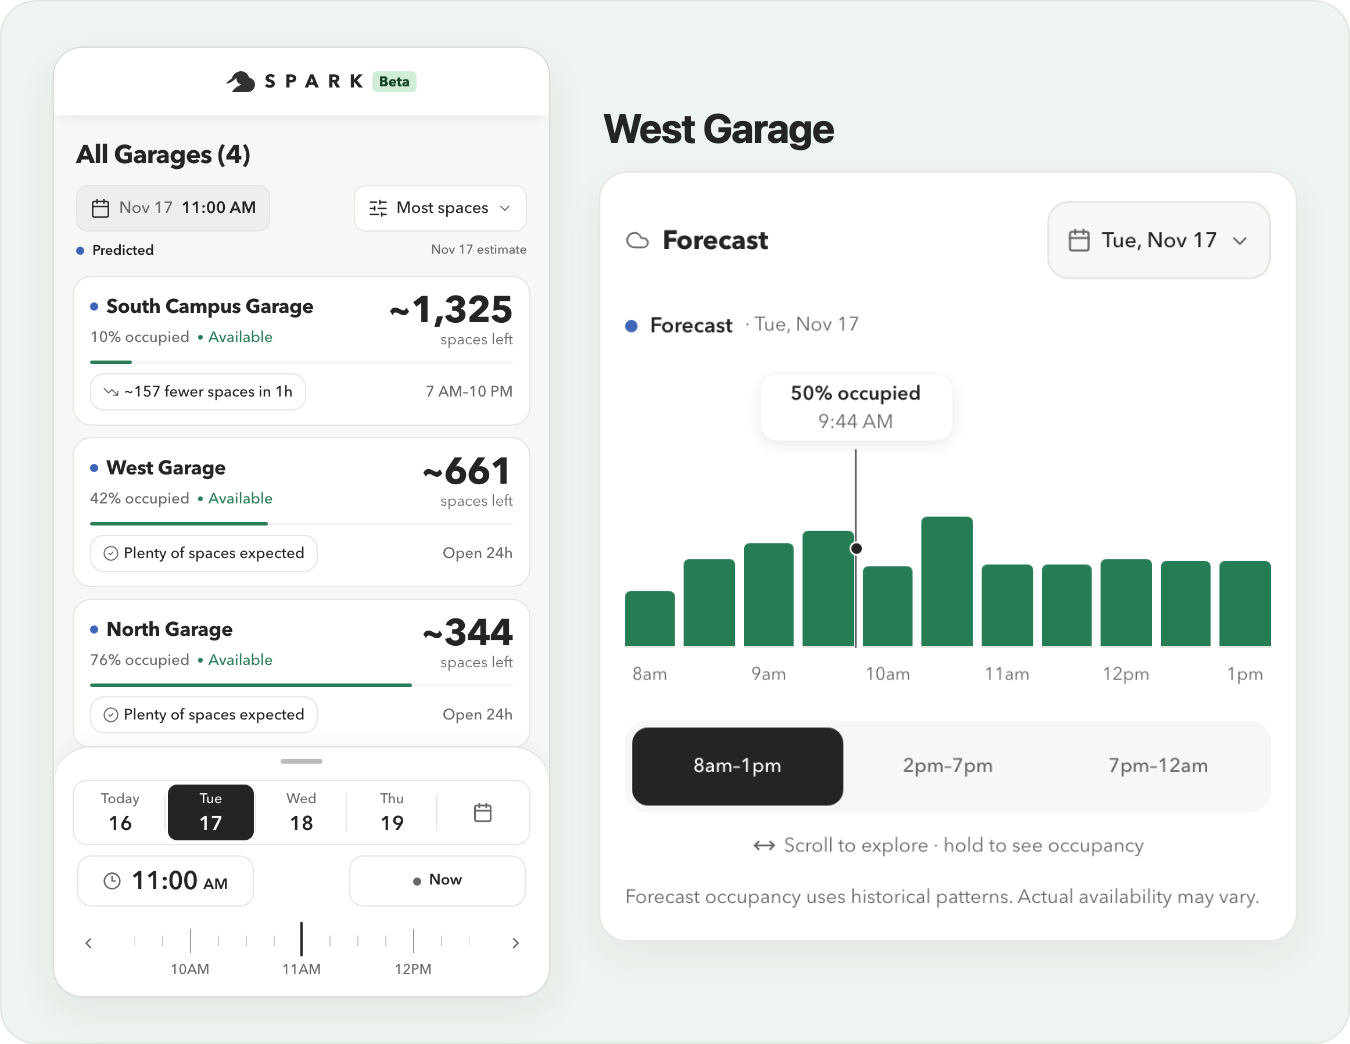
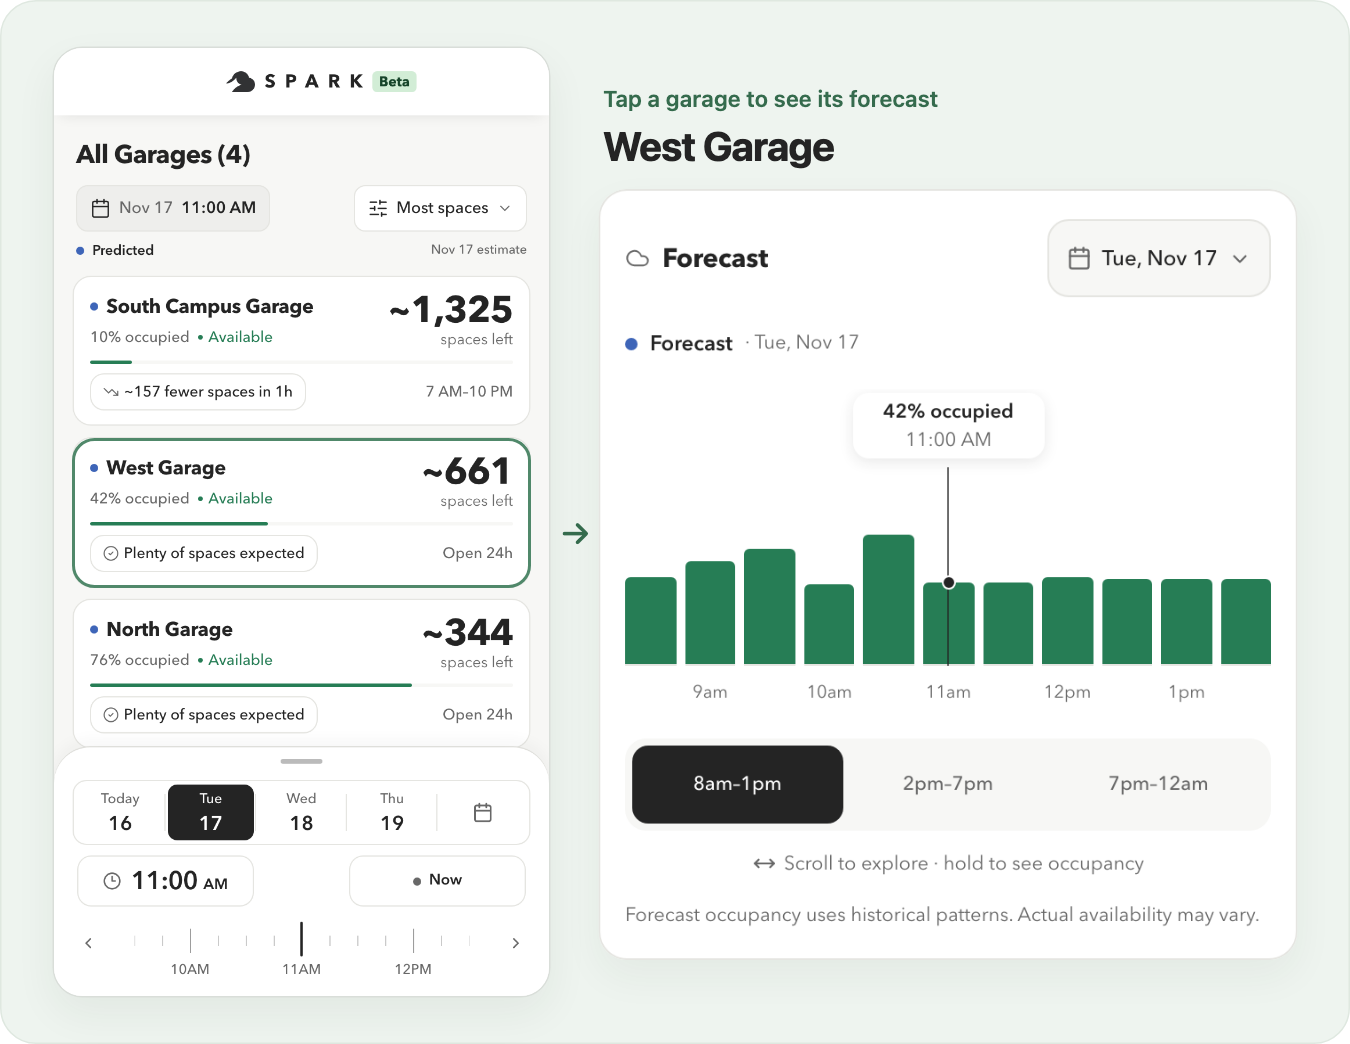
docs: connect the garage list to the forecast preview

diff --git a/README.md b/README.md
@@ -44,7 +44,7 @@
 
 <p align="center">
   <a href="https://sparkparking.vercel.app/">
-    <img src="./assets/spark-demo.png" alt="sPARK garage availability and date picker alongside the West Garage occupancy forecast" width="760">
+    <img src="./assets/spark-demo.png" alt="West Garage highlighted in the sPARK garage list, with its 11:00 AM occupancy forecast alongside" width="760">
   </a>
 </p>
 
